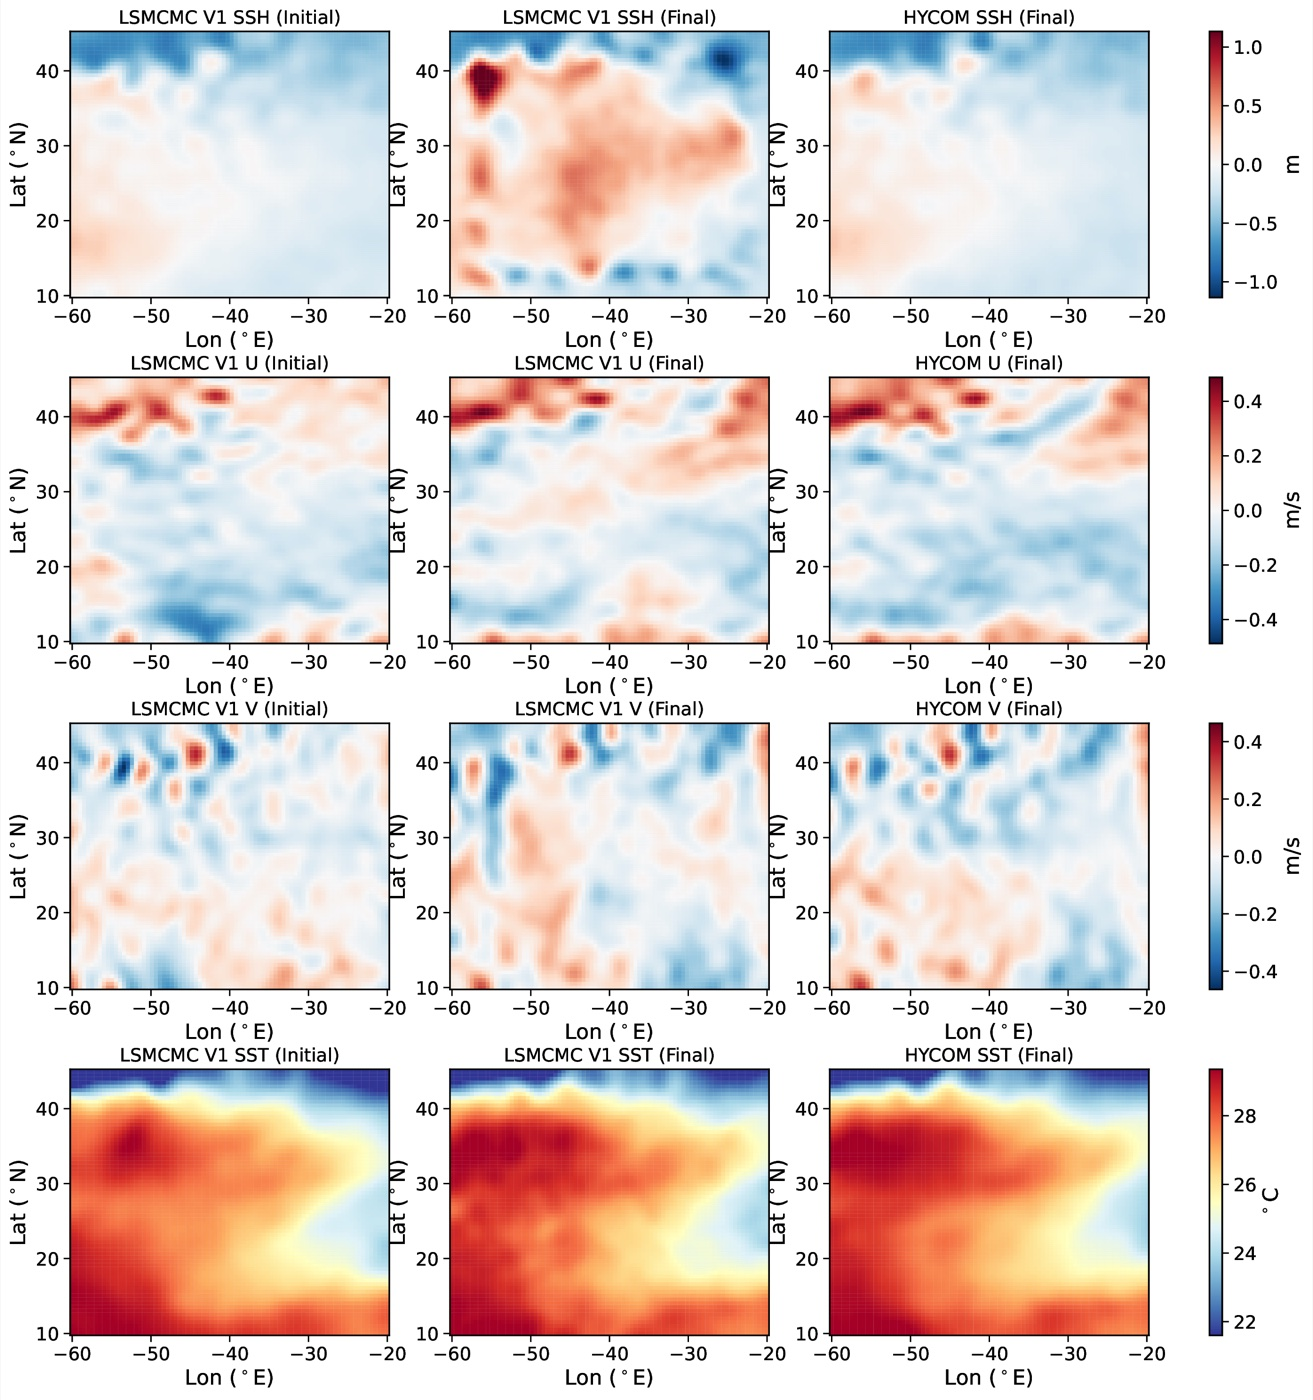
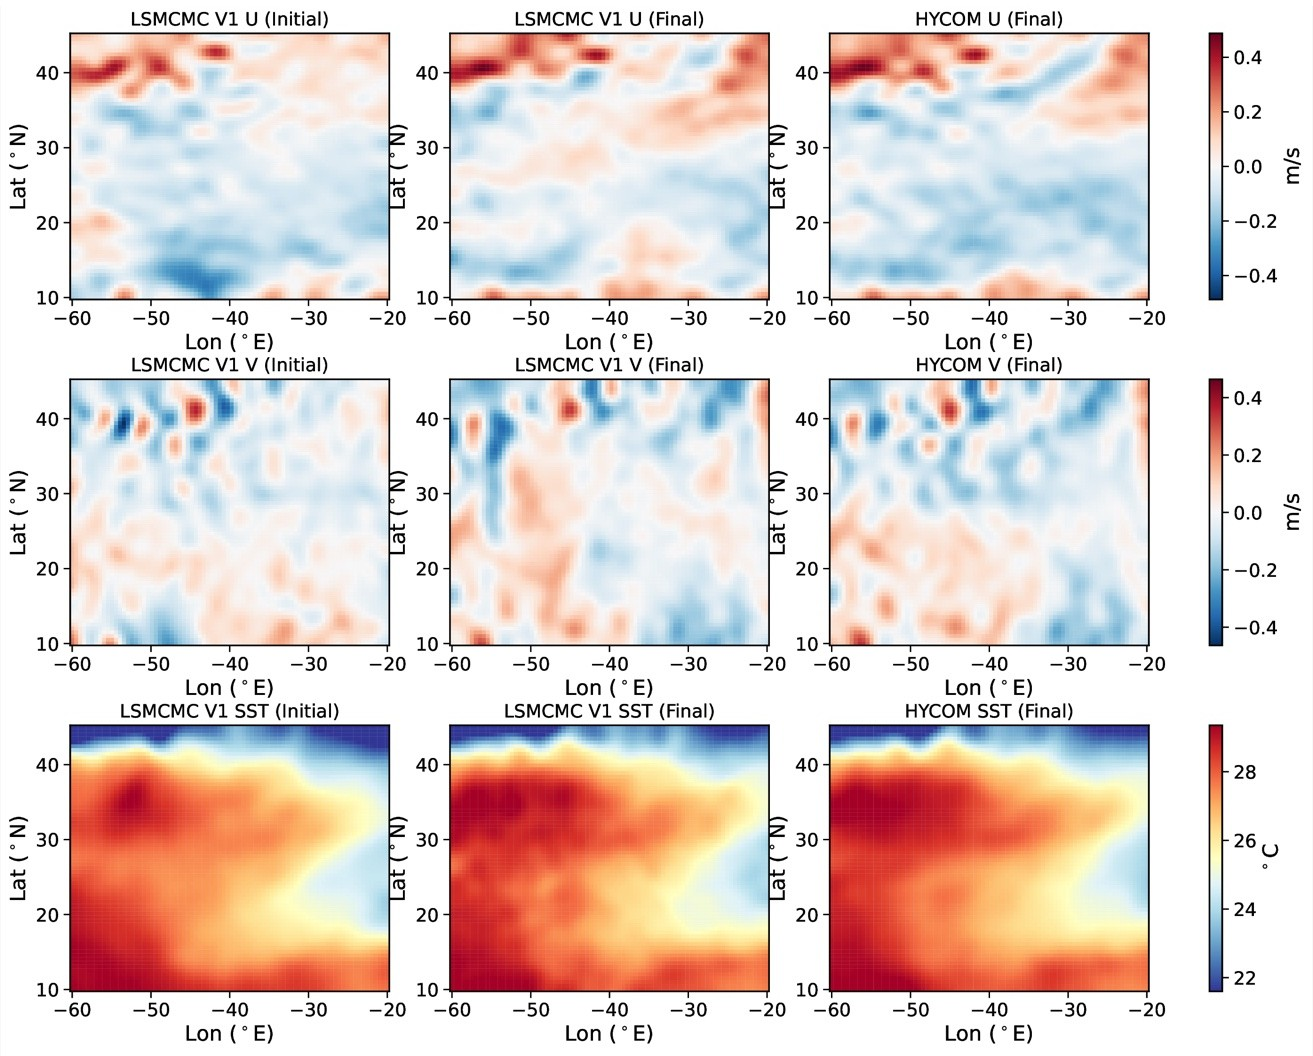
WAIVES spotlight: nine-system noise figure, optical-trap example; preprints first
- Replace the four-system figure with the paper's nine-system figure at the
  main and stress (15% of range) noise levels, re-tiled for the web.
- Add the optical-trap real-data example: learned drift vs the Stokes +
  noise-corrected equipartition reference, and learned diffusion vs the
  Einstein-Smoluchowski value, plotted from the paper's reported values.
- Sequential MCMC feature figure: drop the SSH row, keep U, V and SST.
- Publications: list preprints before journal articles.

diff --git a/index.html b/index.html
@@ -353,18 +353,28 @@
         </div>
 
         <div class="spot-figs">
-          <figure class="feature-media">
-            <img src="images/web/waives-systems.jpg" width="1200" height="746" loading="lazy"
-              alt="Latent paths and noisy observations for the Ornstein-Uhlenbeck, double-well, stochastic Lorenz-63 and FitzHugh-Nagumo systems" />
-            <figcaption>Noisy observations (orange) of the latent path (blue) for four of the nine test systems:
-              Ornstein&ndash;Uhlenbeck, double-well, stochastic Lorenz-63 and FitzHugh&ndash;Nagumo.</figcaption>
+          <figure class="feature-media wide">
+            <img src="images/web/waives-noise-levels.jpg" width="1800" height="1005" loading="lazy"
+              alt="Latent paths and noisy observations for all nine test systems, at the main noise level and at a stress noise level of 15 percent of each component's range" />
+            <figcaption>All nine test systems: latent path (blue) and noisy observations (orange) at the main noise
+              level and at a stress level whose noise standard deviation is 15% of each component&rsquo;s range.
+              Ornstein&ndash;Uhlenbeck, double-well, Lorenz-63, FitzHugh&ndash;Nagumo, Cox&ndash;Ingersoll&ndash;Ross,
+              Lorenz-96, Kuramoto, underdamped Langevin, and Lorenz-63 seen through a non-identity observation
+              map.</figcaption>
           </figure>
-          <figure class="feature-media">
+          <figure class="feature-media wide">
             <img src="images/web/waives-histograms.jpg" width="1400" height="730" loading="lazy"
               alt="Histograms of WAIVES estimates for nine systems, each centred on the true value with a Gaussian fit" />
             <figcaption>Accuracy across all nine systems: estimates of one representative parameter from 1000
               independent trajectories (200 for Lorenz-96) are centred on the truth (red dashed) and close to Gaussian
               (insets: normal Q&ndash;Q plots).</figcaption>
+          </figure>
+          <figure class="feature-media wide">
+            <img src="images/web/waives-coverage.jpg" width="2000" height="590" loading="lazy"
+              alt="Standard errors shrinking with record length and confidence-interval coverage near 95 percent for two systems" />
+            <figcaption>Calibrated uncertainty: plug-in standard errors track the true sampling spread and shrink like
+              1/&radic;T, and nominal 95% intervals keep close to 95% coverage as the record grows
+              (Ornstein&ndash;Uhlenbeck, left pair; double-well, right pair).</figcaption>
           </figure>
           <figure class="feature-media wide">
             <img src="images/web/waives-amo.jpg" width="2000" height="572" loading="lazy"
@@ -375,11 +385,14 @@
               the record cannot distinguish a single well from a shallow double well.</figcaption>
           </figure>
           <figure class="feature-media wide">
-            <img src="images/web/waives-coverage.jpg" width="2000" height="590" loading="lazy"
-              alt="Standard errors shrinking with record length and confidence-interval coverage near 95 percent for two systems" />
-            <figcaption>Calibrated uncertainty: plug-in standard errors track the true sampling spread and shrink like
-              1/&radic;T, and nominal 95% intervals keep close to 95% coverage as the record grows
-              (Ornstein&ndash;Uhlenbeck, left pair; double-well, right pair).</figcaption>
+            <img src="images/web/waives-trap.jpg" width="1995" height="690" loading="lazy"
+              alt="Optical-trap calibration: drift lines learned by WAIVES overlapping the first-principles reference at three laser powers, and learned diffusion coefficients within a few percent of the Einstein value" />
+            <figcaption>Real data: calibrating an optical trap, with the published records of Gieseler et al. (2021), a
+              1.03&nbsp;&micro;m bead in water, five records of 10<sup>6</sup> samples at each of three laser powers.
+              (A) The drift learned by WAIVES (solid) against the first-principles reference from Stokes drag and
+              noise-corrected equipartition (dashed): the stiffness is within about 3% at every power. (B) The learned
+              diffusion against the Einstein&ndash;Smoluchowski value D = k<sub>B</sub>T/&gamma;, within &minus;0.2% to
+              +2.3%. Plotted from the values reported in the paper (mean &plusmn; s.d. over the five records).</figcaption>
           </figure>
         </div>
 
@@ -392,12 +405,12 @@
 
       <div class="feature">
         <figure class="feature-media" style="margin:0">
-          <img src="images/web/fig-feature.jpg" alt="North Atlantic sea-surface height, velocity and temperature reconstructed by localized sequential MCMC versus HYCOM reanalysis" loading="lazy" />
+          <img src="images/web/fig-feature.jpg?v=2" alt="North Atlantic velocity and temperature reconstructed by localized sequential MCMC versus HYCOM reanalysis" loading="lazy" />
           <figcaption>Real-data experiment (JAMES, 2026): localized sequential MCMC assimilates real drifter velocity and
             temperature observations and SWOT sea-surface height into a three-layer shallow-water model of the North
             Atlantic (state dimension 67,200) over 240 cycles, starting from the HYCOM state at the initial time with
             added noise. Columns: analysis at the first cycle (left) and final cycle (centre), and the HYCOM reanalysis
-            at the final time (right). Rows: sea-surface height, eastward and northward velocity, temperature.</figcaption>
+            at the final time (right). Rows: eastward velocity, northward velocity and sea-surface temperature.</figcaption>
         </figure>
         <div>
           <span class="kicker">Data assimilation</span>
@@ -500,6 +513,35 @@
         </div>
         <p>In SIAM journals, J. Comput. Phys., QJRMS, Mathematics of Computation, JAMES, Statistics and Computing, and
           others.</p>
+      </div>
+
+      <div class="pub-group">
+        <h3>Preprints</h3>
+        <ul class="pubs" data-group="preprint">
+          <li><span class="yr">2026</span>
+            <div><span class="title">WAIVES: Weak-form Asymptotically-unbiased Instrumental-Variable Estimation for
+                SDEs</span>
+              <span class="authors"><b>Ruzayqat, H.</b>, Bortz, D. M. &amp; Duki&cacute;, V.</span>
+              <span class="venue"><a href="https://arxiv.org/abs/2611.23951" target="_blank" rel="noopener">arXiv:2611.23951</a></span>
+            </div><a class="pdf" href="https://arxiv.org/pdf/2611.23951" target="_blank" rel="noopener">PDF</a>
+          </li>
+          <li><span class="yr">2026</span>
+            <div><span class="title">Whittle&ndash;Matérn Fields with Variable Smoothness</span>
+              <span class="authors"><b>Ruzayqat, H.</b>, Lei, W., Bolin, D., Turkiyyah, G. &amp; Knio, O.</span>
+            </div><a class="pdf" href="https://arxiv.org/pdf/2602.16581" target="_blank" rel="noopener">PDF</a>
+          </li>
+          <li><span class="yr">2025</span>
+            <div><span class="title">Bayesian Anomaly Detection in Variable-Order and Variable-Diffusivity Fractional
+                Mediums</span>
+              <span class="authors"><b>Ruzayqat, H.</b>, Turkiyyah, G. &amp; Knio, O.</span>
+            </div>
+          </li>
+          <li><span class="yr">2024</span>
+            <div><span class="title">Local Sequential MCMC for Data Assimilation with Applications in Geoscience</span>
+              <span class="authors"><b>Ruzayqat, H.</b> &amp; Knio, O.</span>
+            </div><a class="pdf" href="https://arxiv.org/pdf/2409.07111" target="_blank" rel="noopener">PDF</a>
+          </li>
+        </ul>
       </div>
 
       <div class="pub-group">
@@ -613,35 +655,6 @@
               <span class="venue">Journal of Chemical Theory and Computation, 14(1), 48&ndash;54</span>
             </div><a class="pdf" href="https://web.math.utk.edu/~schulze/paper33.pdf" target="_blank"
               rel="noopener">PDF</a>
-          </li>
-        </ul>
-      </div>
-
-      <div class="pub-group">
-        <h3>Preprints</h3>
-        <ul class="pubs" data-group="preprint">
-          <li><span class="yr">2026</span>
-            <div><span class="title">WAIVES: Weak-form Asymptotically-unbiased Instrumental-Variable Estimation for
-                SDEs</span>
-              <span class="authors"><b>Ruzayqat, H.</b>, Bortz, D. M. &amp; Duki&cacute;, V.</span>
-              <span class="venue"><a href="https://arxiv.org/abs/2611.23951" target="_blank" rel="noopener">arXiv:2611.23951</a></span>
-            </div><a class="pdf" href="https://arxiv.org/pdf/2611.23951" target="_blank" rel="noopener">PDF</a>
-          </li>
-          <li><span class="yr">2026</span>
-            <div><span class="title">Whittle&ndash;Matérn Fields with Variable Smoothness</span>
-              <span class="authors"><b>Ruzayqat, H.</b>, Lei, W., Bolin, D., Turkiyyah, G. &amp; Knio, O.</span>
-            </div><a class="pdf" href="https://arxiv.org/pdf/2602.16581" target="_blank" rel="noopener">PDF</a>
-          </li>
-          <li><span class="yr">2025</span>
-            <div><span class="title">Bayesian Anomaly Detection in Variable-Order and Variable-Diffusivity Fractional
-                Mediums</span>
-              <span class="authors"><b>Ruzayqat, H.</b>, Turkiyyah, G. &amp; Knio, O.</span>
-            </div>
-          </li>
-          <li><span class="yr">2024</span>
-            <div><span class="title">Local Sequential MCMC for Data Assimilation with Applications in Geoscience</span>
-              <span class="authors"><b>Ruzayqat, H.</b> &amp; Knio, O.</span>
-            </div><a class="pdf" href="https://arxiv.org/pdf/2409.07111" target="_blank" rel="noopener">PDF</a>
           </li>
         </ul>
       </div>
